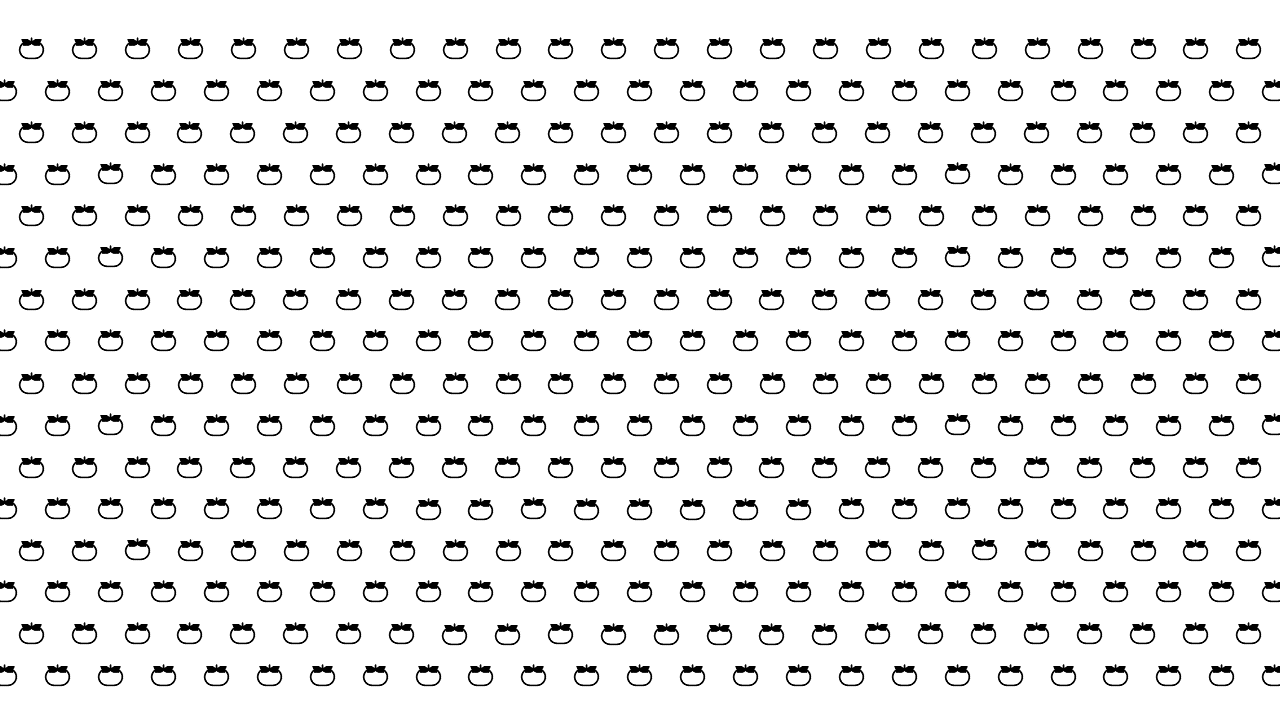
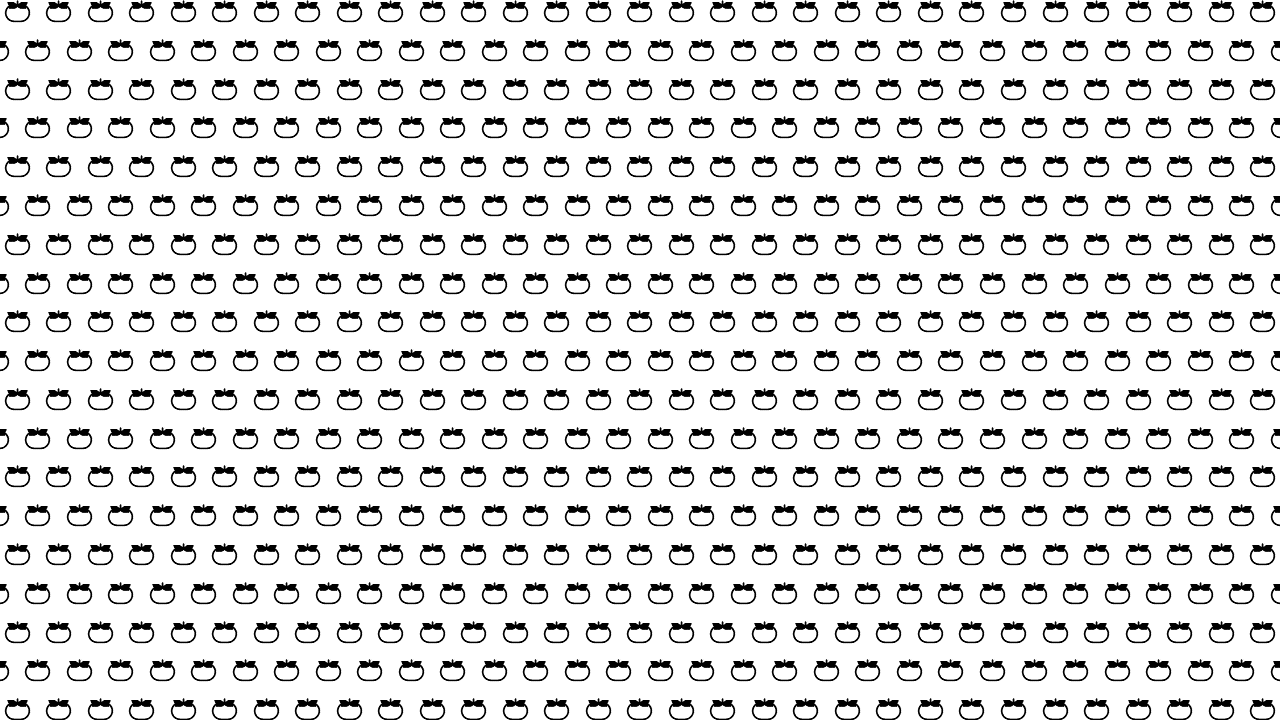
change background image

Changed region(s): [[0.0, 0.0, 1.0, 1.0]]

diff --git a/_sass/addon/commons.scss b/_sass/addon/commons.scss
@@ -685,7 +685,8 @@ $btn-mb: 0.5rem;
   overflow-y: auto;
   width: $sidebar-width;
   z-index: 99;
-  background: var(--sidebar-bg);
+
+  /* background: var(--sidebar-bg); */
   background-image: url('/assets/img/sidebar/sidebar_tomato_image.PNG'); /* 사용하고 싶은 이미지 경로 */
   background-size: cover;  /* 이미지의 size가 보여질 부분의 사이즈와 다른 경우에는 이미지 크기를 꽉차게 만든다 */
   background-repeat: no-repeat; /* 이미지의 size가 보여질 부분의 사이즈와 다른 경우 이미지가 반복하여 나오는데, 반복하지 않겠다 */

diff --git a/_sass/colors/typography-dark.scss b/_sass/colors/typography-dark.scss
@@ -37,7 +37,8 @@
   /* Sidebar */
   --site-title-color: #000000;
   --site-subtitle-color: #373737;
-  --sidebar-bg:#e5e5e5;
+  
+  /* --sidebar-bg:#1e1e1e; */
   --sidebar-border-color: #000000; /* split line of sidebar and contents */
   --sidebar-muted-color: #000000; /* basic sidebar content titles color */
   --sidebar-active-color: #EF3100; /* changed contents' title color when click the sidebar */

diff --git a/_sass/colors/typography-light.scss b/_sass/colors/typography-light.scss
@@ -40,7 +40,8 @@
   /* Sidebar */
   --site-title-color: rgb(0, 0, 0);
   --site-subtitle-color: #373737;
-  --sidebar-bg: #f6f8fa;
+  
+  /* --sidebar-bg: #f6f8fa; */
   --sidebar-border-color: #000000;
   --sidebar-muted-color: #000000;
   --sidebar-active-color: #EF3100;
